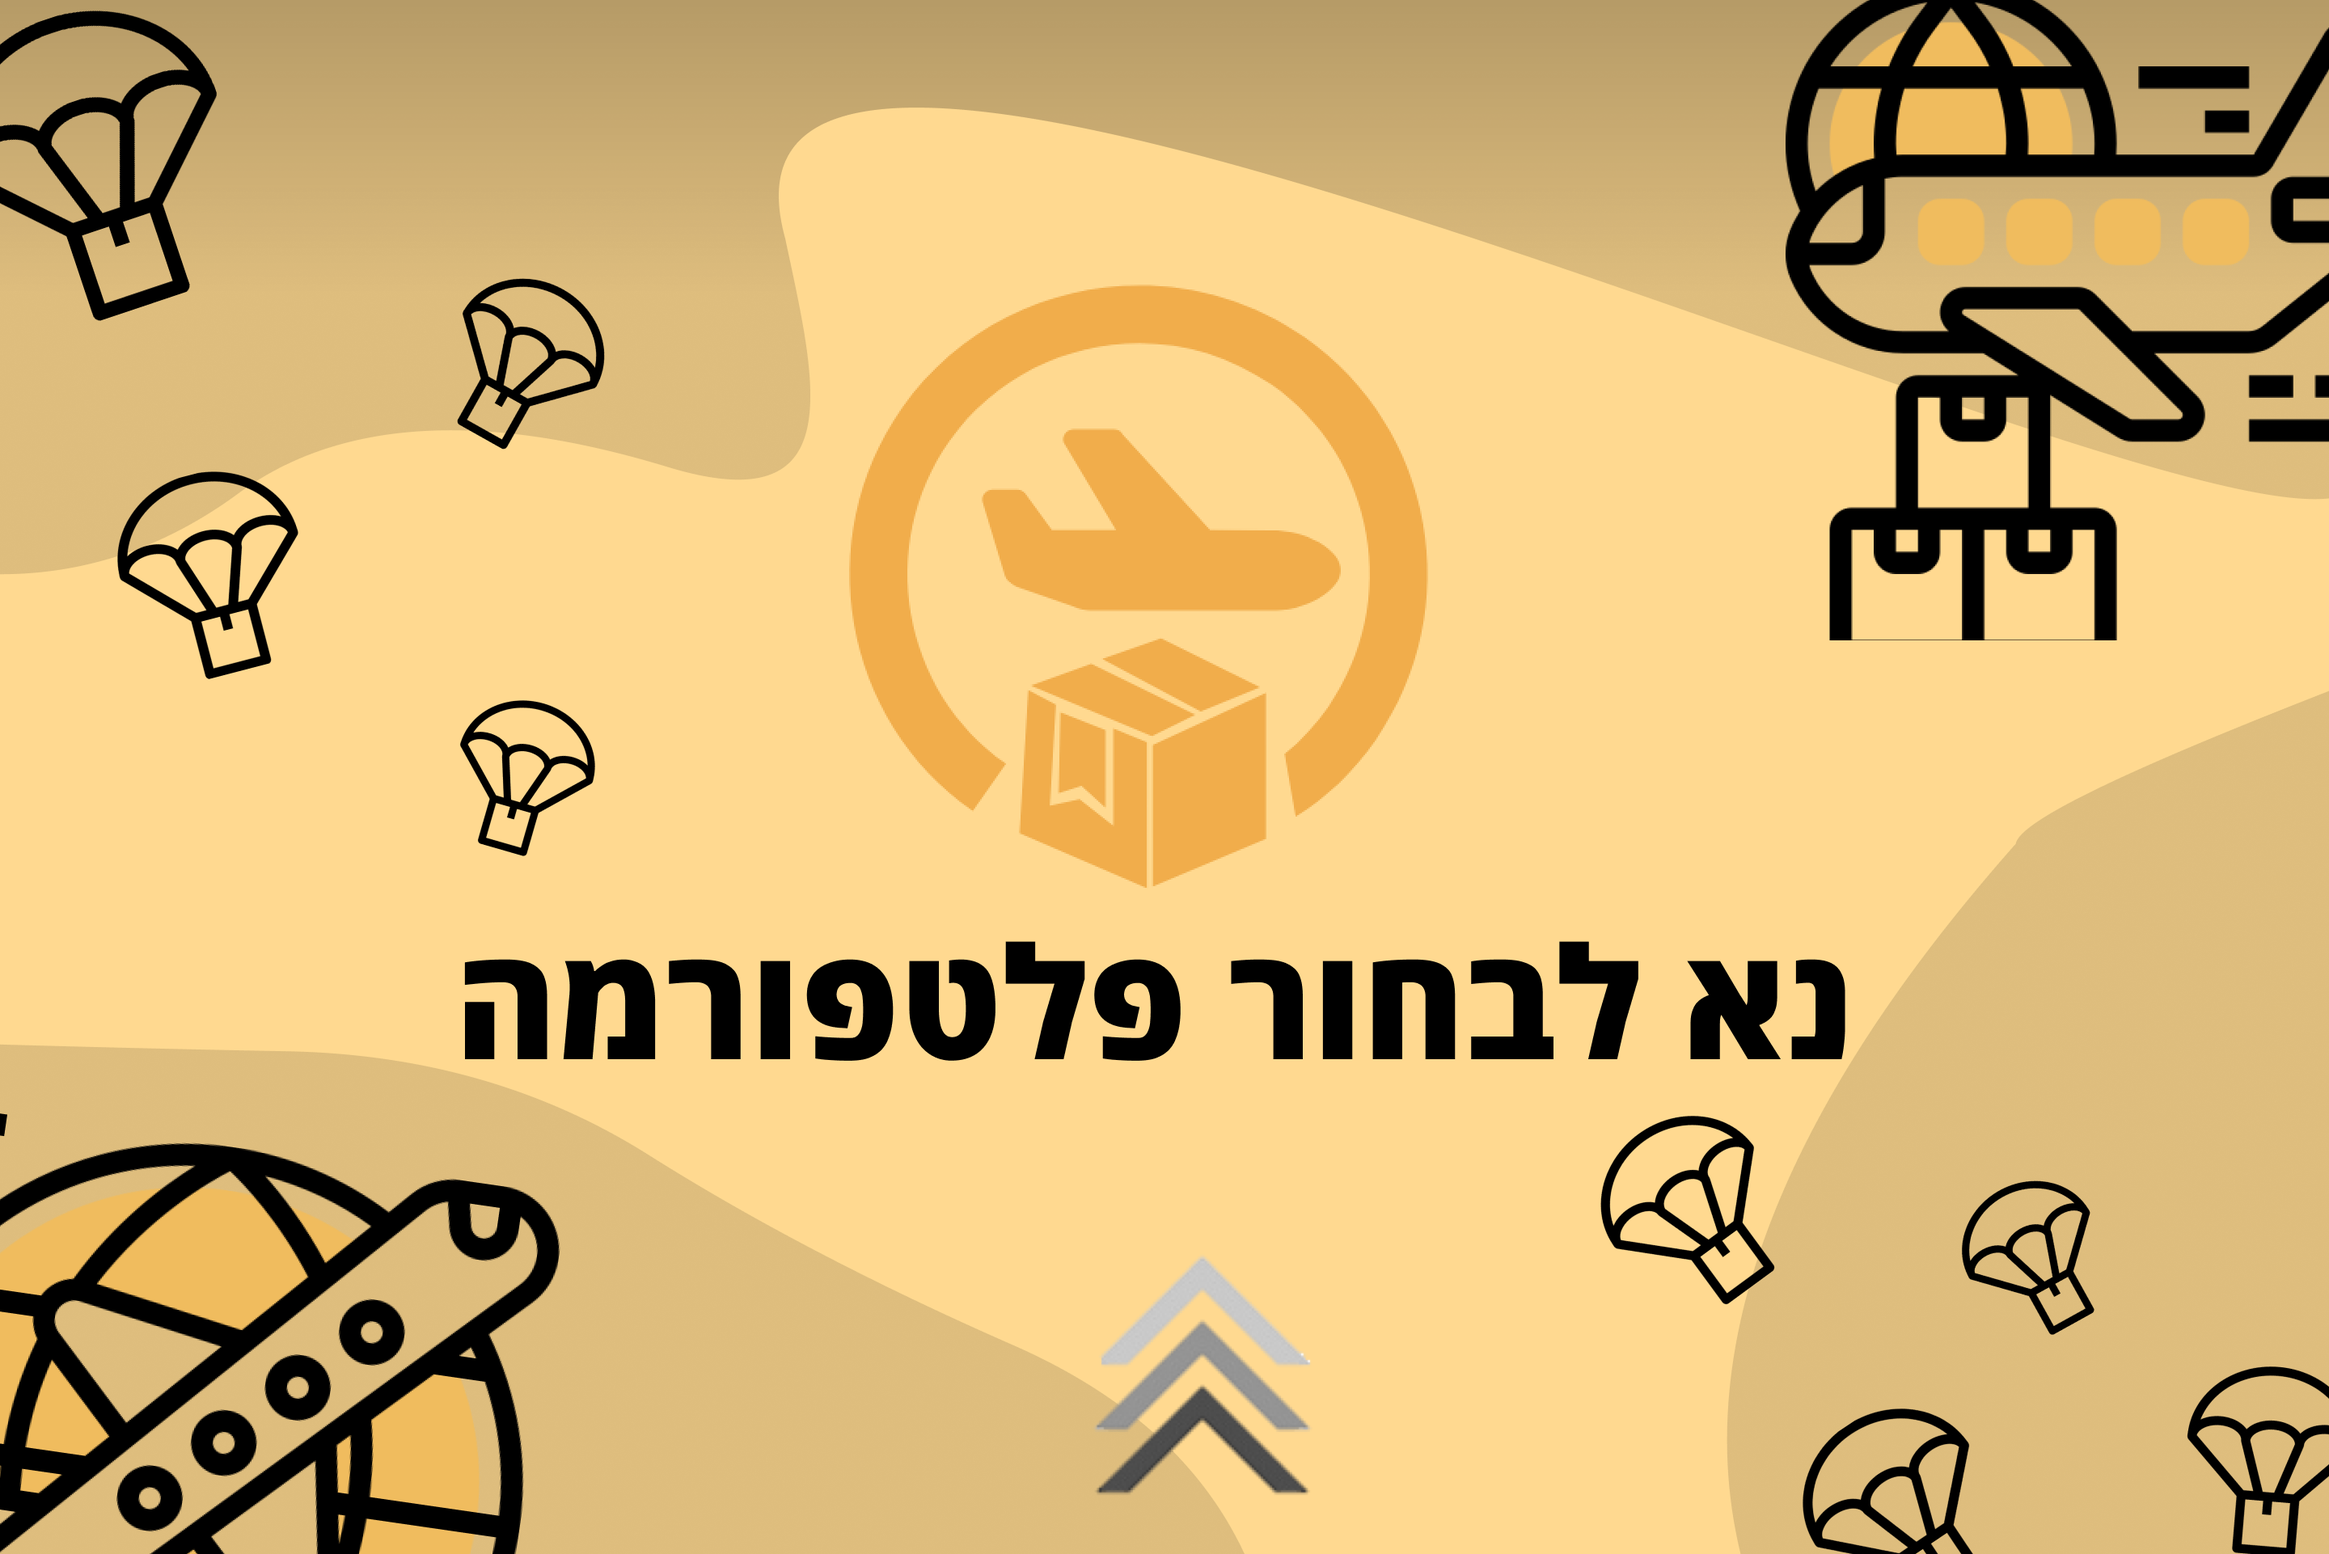
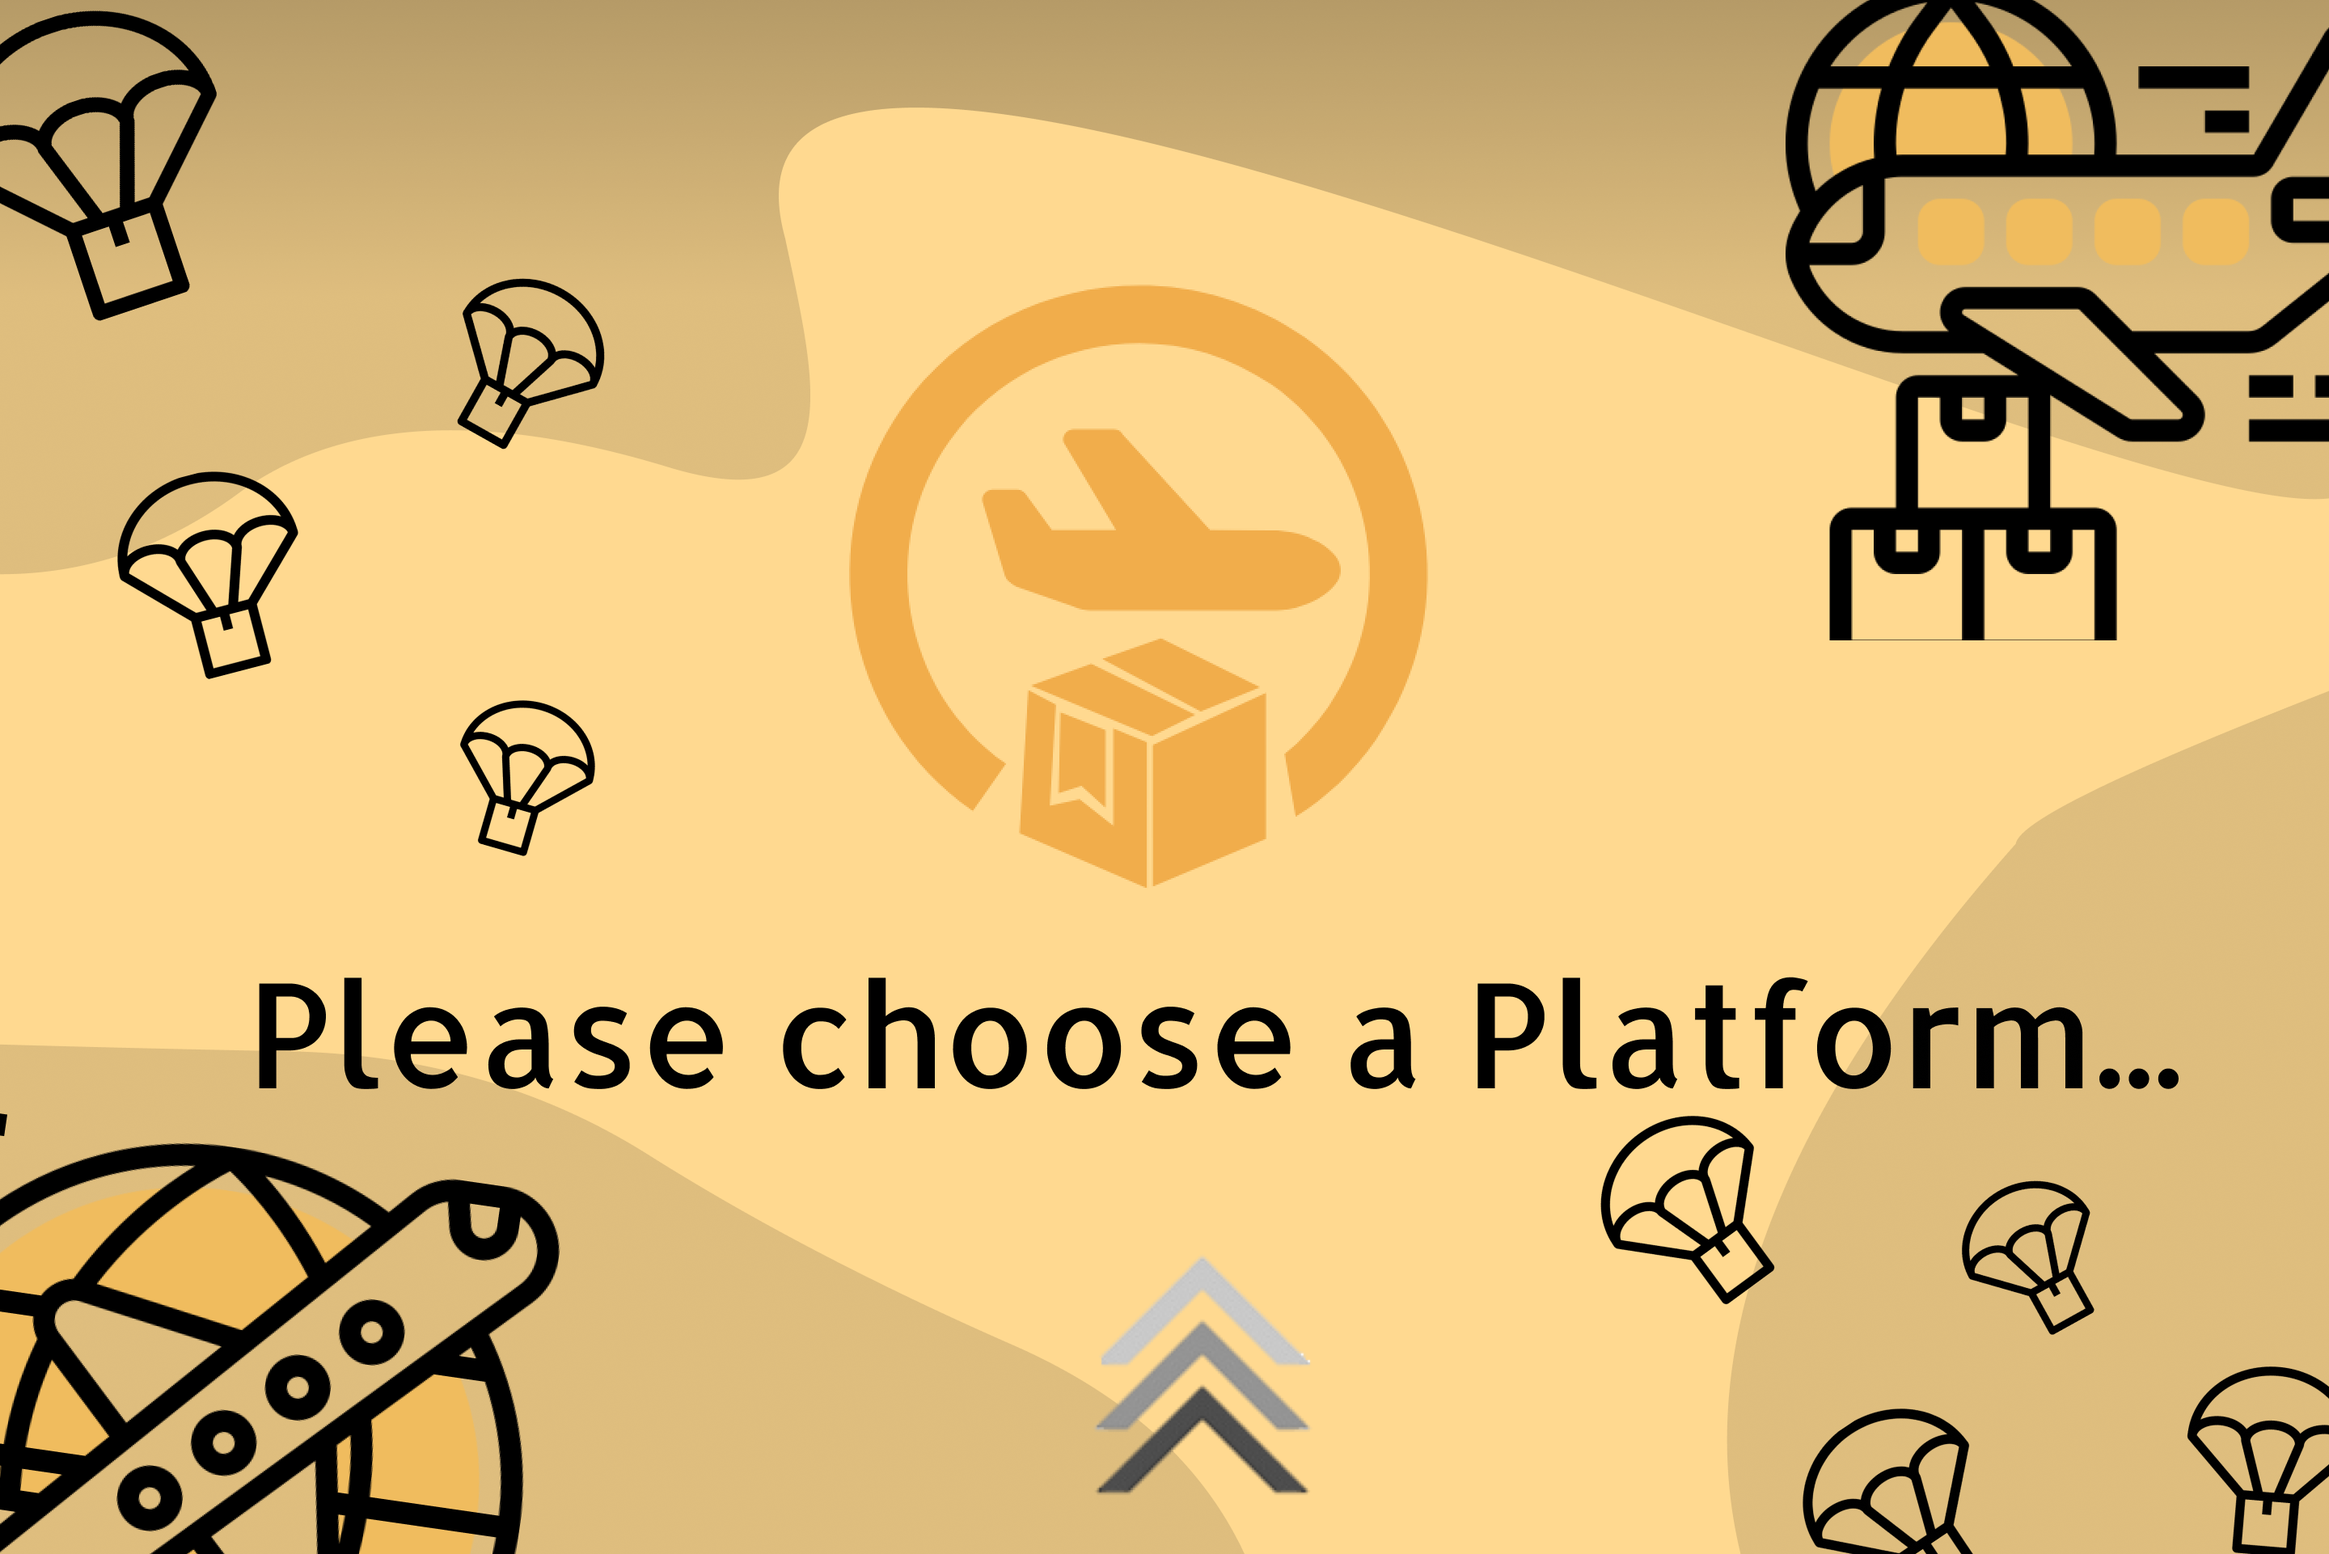
restyling

Changed region(s): [[0.0938, 0.5931, 0.9375, 0.718]]

diff --git a/src/components/BasicData/BasicData.js b/src/components/BasicData/BasicData.js
@@ -1,11 +1,12 @@
 import React from "react";
 import Select from "react-select";
 import FuelData from "./FuelData";
-// import "reactjs-popup/dist/index.css";
 import { useDispatch, useSelector } from "react-redux";
 import {
-  increment,
-  decrement,
+  incrementCockpitCrew,
+  decrementCockpitCrew,
+  incrementInspectorsCrew,
+  decrementInspectorsCrew,
   updateEmptyWeight,
   updateIndex,
   updateConfig,
@@ -17,81 +18,89 @@ import minus from "../../icons/minusIcon.png";
 import { useState } from "react";
 
 const configs = [
-  { value: "1", label: "תצורה 1" },
-  { value: "2", label: "תצורה 2" },
-  { value: "3", label: "תצורה 3" },
-  { value: "4", label: "תצורה 4" },
+  { value: "1", label: "Option 1" },
+  { value: "2", label: "Option 2" },
+  { value: "3", label: "Option 3" },
+  { value: "4", label: "Option 4" },
 ];
 
 const BasicData = ({ setModalIsOpen }) => {
-  const { countPeople, emptyWeight } = useSelector((state) => state.basicData);
+  const {
+    cockpitCrew,
+    Crew,
+    emptyWeight,
+    index,
+    config,
+    fuelPod,
+    slider1,
+    slider2,
+    slider3,
+    slider4,
+    slider5,
+  } = useSelector((state) => state.basicData);
 
-  const [EmptyWeight, setEmptyWeight] = useState(0);
-  const [Index, setIndex] = useState(0);
   const [Config, setConfig] = useState(null);
 
   const dispatch = useDispatch();
 
   return (
     <div className="flex flex-col w-11/12">
-      <h1 className="text-center text-5xl font-bold my-4">
-        נתוני בסיס
-      </h1>
+      <h1 className="text-center text-5xl font-bold my-4">Basic Data</h1>
       <div className="flex justify-around">
+        <FuelData />
         <div>
           <div className="text-box-item">
-            <label className="text-lg">משקל ריק</label>
             <input
               clasName="input-css"
-              placeholder="הכנס משקל ריק"
               type="text"
+              placeholder={emptyWeight}
               onChange={(event) => {
-                setEmptyWeight(event.target.value);
-                dispatch(updateEmptyWeight(EmptyWeight));
+                dispatch(updateEmptyWeight(event.target.value));
               }}
             />
+            <label className="text-lg">Empty Weight</label>
           </div>
           <div className="text-box-item">
-            <label className="text-lg">אינדקס מטוס</label>
             <input
               clasName="input-css"
-              placeholder="הכנס אינדקס מטוס"
               type="text"
+              placeholder={index}
               onChange={(event) => {
-                setIndex(event.target.value);
-                dispatch(updateIndex(Index));
+                dispatch(updateIndex(event.target.value));
               }}
             />
+            <label className="text-lg">Aircraft Index</label>
           </div>
-
-          <div>
-            <label className="text-lg">תצורות</label>
+          <div className="grid grid-cols-2 place-items-end ">
             <Select
               options={configs}
-              defaultValue={Config}
+              defaultValue={config}
               onChange={(Config) => {
                 setConfig(Config.value);
-                dispatch(updateConfig(Config));
+                dispatch(updateConfig(Config.value));
+                console.log(Config.value);
               }}
-              placeholder="בחר תצורה"
+              placeholder={"Option " + config}
             />
+            <label className="text-lg">Formation</label>
           </div>
-          <div id="people-css">
-            <label className="text-lg"> אנשי צוות</label>
-            <button onClick={() => dispatch(increment())}>
-              <img src={plus} alt="" />
-            </button>
-            <h1>{countPeople}</h1>
-            <button
-              onClick={() => {
-                if (countPeople > 0) dispatch(decrement());
-              }}
-            >
-              <img src={minus} alt="" />
-            </button>
+          <div className="place-items-start">
+            <label className="text-lg "> Crew </label>
+            <div id="counter-css">
+              <button
+                onClick={() => {
+                  if (cockpitCrew > 0) dispatch(decrementCockpitCrew());
+                }}
+              >
+                <img src={minus} alt="" />
+              </button>
+              <h1>{cockpitCrew}</h1>
+              <button onClick={() => dispatch(incrementCockpitCrew())}>
+                <img src={plus} alt="" />
+              </button>
+            </div>
           </div>
         </div>
-        <FuelData />
       </div>
       <button
         id="next"

diff --git a/src/components/dataDisplay/DataCollection.js b/src/components/dataDisplay/DataCollection.js
@@ -7,17 +7,19 @@ const DataCollection = () => {
   return (
     <Fragment>
       <div id="data-col-win">
-        <h1 id="data-col-h1">ריכוז נתונים כללי</h1>
-        <div id="data-col-h2" className="grid grid-cols-2 gap-2 place-items-center">
-
-          <h2>משקל המראה : {staticData.takeOffWeight}</h2>
-          <h2>ZFW  : {staticData.ZFW}</h2>
-          <h2> Index : {staticData.totalIndex}</h2>
-          <h2> סה"כ דלק : {staticData.fuel}</h2>
-          <h2> AREA : {staticData.areaGraph}</h2>
-          <h2> MAC : {staticData.MAC}</h2>
-          <h2>משקל מטען כולל : {staticData.totalCargoWeight}</h2>
-          <h2> טווחי MAC : {staticData.MACRange}</h2>
+        <h1 id="data-col-h1">General Data Collection</h1>
+        <div
+          id="data-col-h2"
+          className="grid grid-cols-2 gap-2 place-items-end m-12 ml-20 font-semibold text-2xl"
+        >
+          <h2>ZFW : {staticData.ZFW}</h2>
+          <h2>Take-Off Weight: {staticData.takeOffWeight}</h2>
+          <h2>Total Fuel: {staticData.fuel}</h2>
+          <h2> Index: {staticData.totalIndex}</h2>
+          <h2> MAC: {staticData.MAC}</h2>
+          <h2> AREA: {staticData.areaGraph}</h2>
+          <h2>MAC Range: {staticData.MACRange}</h2>{" "}
+          <h2>Total Cargo Weight: {staticData.totalCargoWeight}</h2>
         </div>
       </div>
     </Fragment>
@@ -25,4 +27,3 @@ const DataCollection = () => {
 };
 
 export default DataCollection;
-

diff --git a/src/components/ChoosePlatform/ChoosePlatformComponent.js b/src/components/ChoosePlatform/ChoosePlatformComponent.js
@@ -1,8 +1,8 @@
 import React from "react";
 import OptionWrapper from "./OptionWrapper";
 import Karnaf from "../../images/Karnaf.png";
-import Ram from "../../images/Ram.png";
-import Zufit from "../../images/Zufit.png";
+import Reem from "../../images/Reem.png";
+import Tzofit from "../../images/Tzofit.png";
 import Shimshon from "../../images/Shimshon.png";
 
 const ChoosePlatformComponent = () => {
@@ -10,10 +10,10 @@ const ChoosePlatformComponent = () => {
     <div className="h-screen w-screen bg-[#FFD990] flex justify-center items-center">
       <div className="flex flex-col gap-10 z-10">
         <div className="grid grid-cols-2 gap-7 ">
-          <OptionWrapper name="קרנף - C - 130" img={Karnaf} />
-          <OptionWrapper name="שמשון - C - 130 j" img={Ram} />
-          <OptionWrapper name="צופית - AirKing B - 200" img={Zufit} />
-          <OptionWrapper name="ראם - Boeing 707 " img={Shimshon} />
+          <OptionWrapper name="Karnaf - C - 130" img={Karnaf} />
+          <OptionWrapper name="Shimshon - C - 130 j" img={Shimshon} />
+          <OptionWrapper name="Tzofit - AirKing B - 200" img={Tzofit} />
+          <OptionWrapper name="Reem - Boeing 707" img={Reem} />
         </div>
       </div>
     </div>

diff --git a/src/redux/EditBasicDataSlice.js b/src/redux/EditBasicDataSlice.js
@@ -1,7 +1,8 @@
 import { createSlice } from "@reduxjs/toolkit";
 
 const initialState = {
-  countPeople: 0,
+  cockpitCrew: 0,
+  inspectorsCrew: 0,
   emptyWeight: 0,
   index: 0,
   config: 1,
@@ -18,11 +19,17 @@ const EditBasicDataSlice = createSlice({
 
   initialState,
   reducers: {
-    increment: (state) => {
-      state.countPeople += 1;
+    incrementCockpitCrew: (state) => {
+      state.cockpitCrew += 1;
     },
-    decrement: (state) => {
-      state.countPeople -= 1;
+    decrementCockpitCrew: (state) => {
+      state.cockpitCrew -= 1;
+    },
+    incrementInspectorsCrew: (state) => {
+      state.inspectorsCrew += 1;
+    },
+    decrementInspectorsCrew: (state) => {
+      state.inspectorsCrew -= 1;
     },
     updateEmptyWeight: (state, action) => {
       if (!isNaN(action.payload)) {
@@ -91,8 +98,10 @@ const EditBasicDataSlice = createSlice({
 });
 
 export const {
-  increment,
-  decrement,
+  incrementCockpitCrew,
+  decrementCockpitCrew,
+  incrementInspectorsCrew,
+  decrementInspectorsCrew,
   updateEmptyWeight,
   updateIndex,
   updateConfig,

diff --git a/src/index.css b/src/index.css
@@ -46,14 +46,18 @@ label {
 
 input {
   margin: 0.4rem;
+  text-align: left
 }
 
-#people-css {
-  @apply flex justify-start mt-4;
+
+
+#counter-css {
+  @apply flex mt-4 place-items-start;
+  
 }
 
 .text-box-item {
-  @apply my-1 justify-self-center grid grid-cols-2;
+  @apply my-1  grid grid-cols-2 text-left;
 }
 
 button {
@@ -73,7 +77,7 @@ button {
 /* Input Variables CSS */
 
 #input-css {
-  @apply w-full h-11 place-items-stretch rounded-md text-right border border-[#d9d9d9] placeholder-gray-500;
+  @apply w-full h-11 place-items-stretch rounded-md  border border-[#d9d9d9] placeholder-gray-500;
   margin: 0.4rem;
 }
 
@@ -110,7 +114,7 @@ button {
 }
 
 #data-col-h1 {
-  @apply text-center text-3xl font-bold text-white mb-2;
+  @apply text-center text-3xl font-bold text-white mt-5;
 }
 
 #data-col-h2 {

diff --git a/src/components/ChoosePlatform/OptionWrapper.js b/src/components/ChoosePlatform/OptionWrapper.js
@@ -6,9 +6,9 @@ const OptionWrapper = ({ name, img }) => {
   return (
     <Fragment>
       <Link to={routeConstants.homeRoute}>
-        <div className="grid justify-around rounded-2xl bg-[#6C614B] p-2 cursor-pointer" >
-          <img className="rounded-2xl h-40" src={img} alt="img" />
-          <h1 className="justify-self-center font-bold">{name}</h1>
+        <div className="grid justify-around rounded-2xl bg-[#6C614B] p-2 cursor-pointer">
+          <img className="rounded-2xl h-80 m-10 p-0 m-0" src={img} alt="img" />
+          <h1 className="justify-self-center font-bold text-2xl ">{name}</h1>
         </div>
       </Link>
     </Fragment>

diff --git a/src/pages/Home.js b/src/pages/Home.js
@@ -13,8 +13,8 @@ const Home = () => {
         <CGrid />
         <SideBar />
         <div className="flex gap-10">
-          <DataCollection />
           <ObjectList />
+          <DataCollection />
         </div>
       </div>
     </div>
